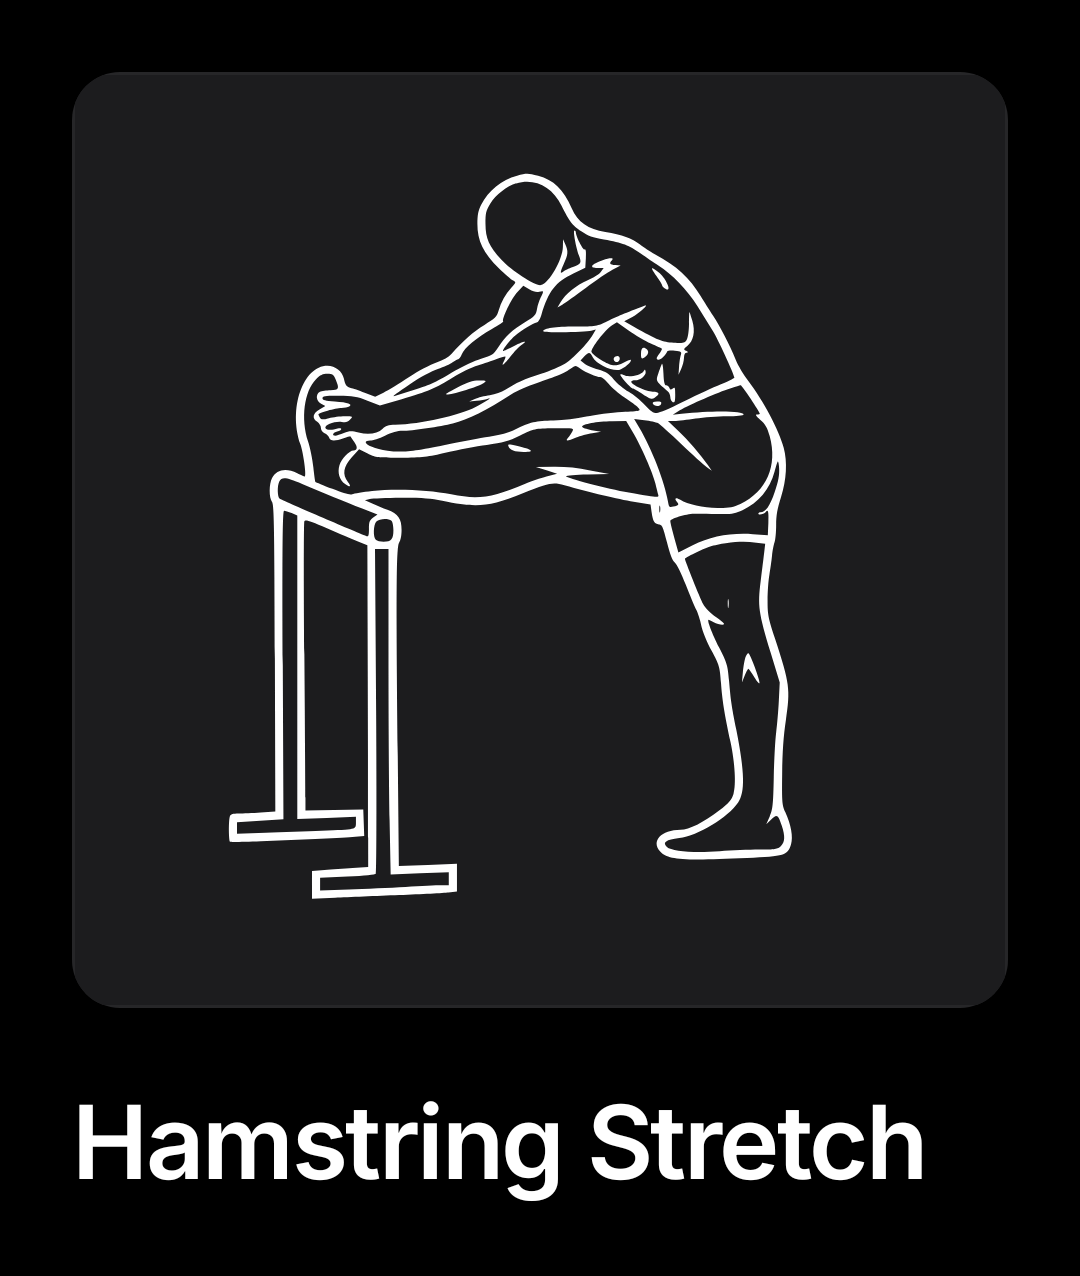
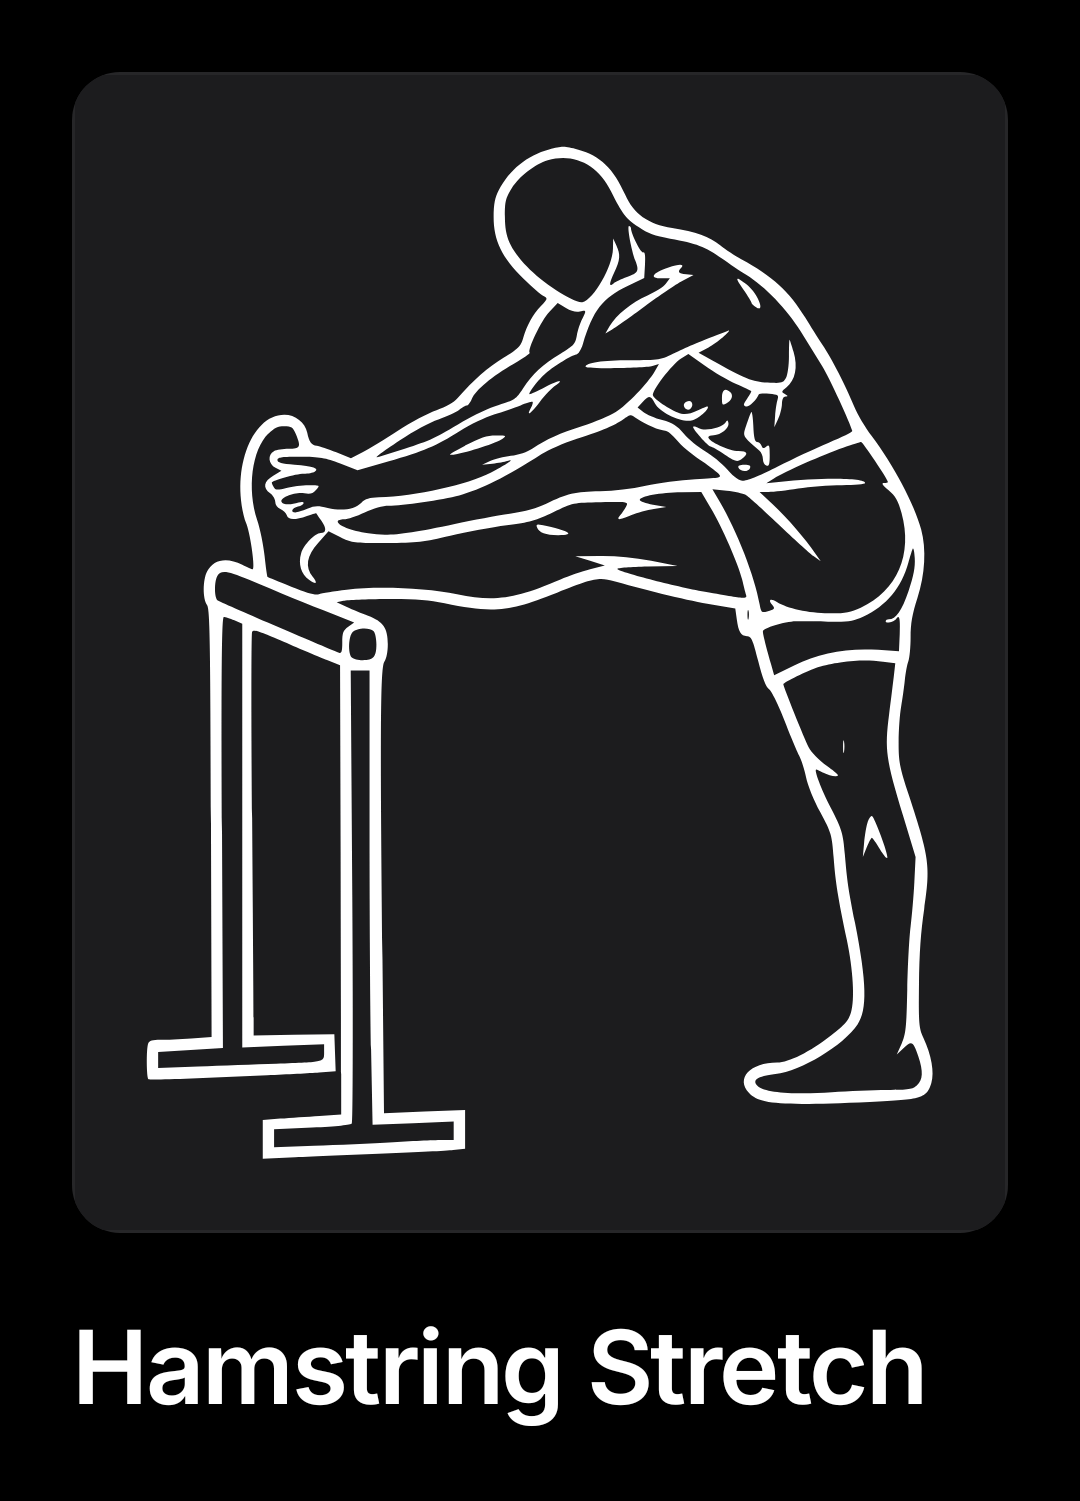
Übungsbild: Einzelbild zuschneiden, Row ohne Intrinsics, SPEC-Lizenz (Sonnet-Gegencheck)
Claude-Session: https://claude.ai/code/session_01PBv5TtvNq9RoQaBJa5EnQj

diff --git a/shared/src/commonMain/kotlin/app/overfit/ui/components/ExerciseImage.kt b/shared/src/commonMain/kotlin/app/overfit/ui/components/ExerciseImage.kt
@@ -4,10 +4,8 @@ import androidx.compose.foundation.background
 import androidx.compose.foundation.border
 import androidx.compose.foundation.layout.Arrangement
 import androidx.compose.foundation.layout.Column
-import androidx.compose.foundation.layout.IntrinsicSize
 import androidx.compose.foundation.layout.Row
 import androidx.compose.foundation.layout.Spacer
-import androidx.compose.foundation.layout.fillMaxHeight
 import androidx.compose.foundation.layout.height
 import androidx.compose.foundation.layout.offset
 import androidx.compose.foundation.layout.requiredSize
@@ -69,8 +67,8 @@ object ExerciseImages {
         if (frame == 1) imageRef else imageRef.removeSuffix(".svg") + "-$frame.svg"
 
     /**
-     * Start and end pose of [exercise] for the detail view, in that order (frame files and crop), or null when it
-     * shows a single image (holds, static stretches, custom exercises, not loaded yet).
+     * Poses of [exercise] for the detail view (frame files and crop): start and end in that order, or just frame 1 for
+     * holds and static stretches. Null without an entry (custom exercises, not loaded yet).
      */
     fun poses(exercise: Exercise, pairs: Map<String, PosePair>?): List<Pose>? {
         val ref = exercise.imageRef ?: return null
@@ -160,8 +158,8 @@ private fun ExerciseImageContent(exercise: Exercise, model: String?, vector: Boo
 /**
  * Large image for the detail screen, in a [Panel]: start and end pose next to each other (stacked for wide, lying
  * poses), both crops the same size and scale with the figure standing on the same line (data from poses.json), small
- * "Start"/"End" captions. Holds, static stretches and anything without a pose pair show frame 1 as one still image;
- * custom exercises without an image get the large initials tile. Theme colour, no animation.
+ * "Start"/"End" captions. Holds and static stretches show frame 1 alone, cropped the same way; a bundled image
+ * without an entry shows the whole frame; custom exercises without an image get the large initials tile. Theme colour, no animation.
  */
 @Composable
 fun ExerciseHero(exercise: Exercise, modifier: Modifier = Modifier) {
@@ -180,6 +178,10 @@ fun ExerciseHero(exercise: Exercise, modifier: Modifier = Modifier) {
     }
     val poses = remember(exercise.id, exercise.imageRef, pairs) { ExerciseImages.poses(exercise, pairs) }
     Panel(modifier) {
+        if (poses?.size == 1) {
+            PoseCell(poses[0], null, Modifier.fillMaxWidth())
+            return@Panel
+        }
         if (poses == null) {
             PanelItem {
                 AsyncImage(
@@ -197,8 +199,9 @@ fun ExerciseHero(exercise: Exercise, modifier: Modifier = Modifier) {
         if (wide) {
             poses.forEachIndexed { i, pose -> PoseCell(pose, labels[i], Modifier.fillMaxWidth()) }
         } else {
-            Row(Modifier.fillMaxWidth().height(IntrinsicSize.Min), horizontalArrangement = Arrangement.spacedBy(1.dp)) {
-                poses.forEachIndexed { i, pose -> PoseCell(pose, labels[i], Modifier.weight(1f).fillMaxHeight()) }
+            // Both crops have the same aspect ratio, so the two cells come out equally tall.
+            Row(Modifier.fillMaxWidth(), horizontalArrangement = Arrangement.spacedBy(1.dp)) {
+                poses.forEachIndexed { i, pose -> PoseCell(pose, labels[i], Modifier.weight(1f)) }
             }
         }
     }
@@ -208,7 +211,7 @@ fun ExerciseHero(exercise: Exercise, modifier: Modifier = Modifier) {
 private const val WIDE_POSE = 1.4f
 
 @Composable
-private fun PoseCell(pose: Pose, label: String, modifier: Modifier) {
+private fun PoseCell(pose: Pose, label: String?, modifier: Modifier) {
     Column(
         modifier.background(Theme.colors.surface).padding(Space.m),
         horizontalAlignment = Alignment.CenterHorizontally,
@@ -227,7 +230,9 @@ private fun PoseCell(pose: Pose, label: String, modifier: Modifier) {
                     .requiredSize(scale * ExerciseImages.CANVAS),
             )
         }
-        Spacer(Modifier.height(Space.s))
-        Text(label, style = Theme.type.caption, tone = Tone.Muted)
+        if (label != null) {
+            Spacer(Modifier.height(Space.s))
+            Text(label, style = Theme.type.caption, tone = Tone.Muted)
+        }
     }
 }

diff --git a/shared/src/androidHostTest/kotlin/app/overfit/ui/ExerciseFramesTest.kt b/shared/src/androidHostTest/kotlin/app/overfit/ui/ExerciseFramesTest.kt
@@ -44,23 +44,23 @@ class ExerciseFramesTest {
 
     @Test fun holdsStretchesAndCustomShowOneImage() {
         for (slug in listOf("plank", "dead-hang", "wall-sit", "hamstring-stretch", "butterfly-stretch")) {
-            assertNull(ExerciseImages.poses(exercise("catalog/wg/$slug.svg"), pairs), slug)
+            assertEquals(listOf("catalog/wg/$slug.svg"), ExerciseImages.poses(exercise("catalog/wg/$slug.svg"), pairs)!!.map { it.ref }, slug)
             assertTrue(!File(wg, "$slug-3.svg").exists(), "unused frame $slug-3.svg")
         }
         assertNull(ExerciseImages.poses(exercise(null), pairs))
         assertNull(ExerciseImages.poses(exercise("catalog/wg/squat.svg"), null))
     }
 
-    /** Every pair: two different frames, both files bundled, crops the same size and inside the 512 x 512 canvas. */
+    /** Every entry: frame 1 alone or frames 1 and 3, files bundled, crops the same size and inside the 512 x 512 canvas. */
     @Test fun everyPairIsBundledAndCropsFit() {
         val refs = catalogRefs()
         assertTrue(refs.size > 300, "catalog images: ${refs.size}")
-        assertTrue(pairs.size > 250, "pairs: ${pairs.size}")
+        assertTrue(pairs.count { it.value.frames.size == 2 } > 250, "pairs: ${pairs.size}")
         val slugs = refs.mapNotNull(ExerciseImages::slug).toSet()
-        assertEquals(emptySet(), pairs.keys - slugs, "pairs without catalog exercise")
+        assertEquals(slugs, pairs.keys, "every catalog exercise has exactly one entry")
         for ((slug, p) in pairs) {
-            assertEquals(setOf(1, 3), p.frames.toSet(), slug)
-            assertEquals(2, p.origin.size, slug)
+            assertTrue(p.frames == listOf(1) || p.frames.toSet() == setOf(1, 3), "$slug frames ${p.frames}")
+            assertEquals(p.frames.size, p.origin.size, slug)
             val (w, h) = p.size
             assertTrue(w > 0 && h > 0 && w <= 512f && h <= 512f, "$slug size $w x $h")
             for ((x, y) in p.origin) assertTrue(x >= 0 && y >= 0 && x + w <= 512.01f && y + h <= 512.01f, "$slug crop $x,$y outside")

diff --git a/tools/catalog/import_catalog.py b/tools/catalog/import_catalog.py
@@ -17,7 +17,7 @@ Ergebnis:
   shared/src/commonMain/composeResources/files/catalog/LICENSE-ASSETS-workout-guide.txt
 (Compose Resources: gemeinsam für Android und iOS.)
 
-Paare (poses.json): je Übung Reihenfolge [Start-Frame, End-Frame], gemeinsame Ausschnittgröße `size` (SVG-Einheiten)
+Posen (poses.json): je Übung Reihenfolge [Start-Frame, End-Frame] (bei SINGLE_POSE nur [1]), gemeinsame Ausschnittgröße `size` (SVG-Einheiten)
 und je Pose die linke obere Ecke `origin` des Ausschnitts. Beide Ausschnitte sind gleich groß (gleiche Skalierung), die
 Figur steht horizontal mittig und unten auf derselben Linie. Grundlage sind die gemessenen Bounding-Boxen und
 Linienstärken in tools/catalog/frame_metrics.json (erzeugt von tools/catalog/measure_frames.js in Chromium aus den
@@ -192,6 +192,14 @@ def shrink(svg: bytes) -> bytes:
 
 def pose_pair(slug: str, m: dict) -> dict:
     """Reihenfolge, gemeinsamer Ausschnitt (gleiche Größe, Figur mittig, gleiche Bodenlinie) und Ausgleichskontur."""
+    if slug in SINGLE_POSE:
+        # Nur Frame 1, aber ebenso auf die Figur zugeschnitten (sonst bleibt z. B. bei Plank das halbe Feld leer).
+        x0, y0, x1, y1 = m["1"]["bbox"]
+        pad = PAD + m["1"]["t"] / 2
+        w, h = min(CANVAS, x1 - x0 + 2 * pad), min(CANVAS, y1 - y0 + 2 * pad)
+        x = min(max((x0 + x1) / 2 - w / 2, 0), CANVAS - w)
+        y = min(max(y1 + pad - h, 0), CANVAS - h)
+        return {"frames": [1], "size": [round(w, 1), round(h, 1)], "origin": [[round(x, 1), round(y, 1)]], "stroke": {}}
     order = [1, 3] if slug in START_AT_FRAME_1 else [3, 1]
     t = {i: m[str(i)]["t"] for i in (1, 3)}
     thick = max(t.values())
@@ -260,7 +268,8 @@ def main() -> None:
         raise SystemExit(f"Dehnübungen ohne Einordnung: {sorted(stretches - SINGLE_POSE - DYNAMIC_STRETCHES)}")
     if set(metrics) != set(by_slug):
         raise SystemExit("frame_metrics.json passt nicht zum Manifest: node tools/catalog/measure_frames.js")
-    pairs = {slug: pose_pair(slug, metrics[slug]) for slug in sorted(by_slug) if slug not in SINGLE_POSE}
+    poses_all = {slug: pose_pair(slug, metrics[slug]) for slug in sorted(by_slug)}
+    pairs = {slug: p for slug, p in poses_all.items() if len(p["frames"]) == 2}
 
     def frames(e: dict) -> list[tuple[str, bytes]]:
         out = []
@@ -318,7 +327,7 @@ def main() -> None:
     for name, data in svgs.items():
         (svg_dir / name).write_bytes(data)
     (OUT / "LICENSE-ASSETS-workout-guide.txt").write_bytes(license_text)
-    poses = {slug: {k: p[k] for k in ("frames", "size", "origin")} for slug, p in pairs.items()}
+    poses = {slug: {k: p[k] for k in ("frames", "size", "origin")} for slug, p in poses_all.items()}
     (OUT / "poses.json").write_text(
         "{\n" + ",\n".join(f'"{k}":' + json.dumps(v, separators=(",", ":")) for k, v in poses.items()) + "\n}\n",
         encoding="utf-8",

diff --git a/docs/DECISIONS.md b/docs/DECISIONS.md
@@ -1179,8 +1179,8 @@ docs/monetization.md „Rechnung (Session AB)“; Schwellen: „Kleinunternehmer
 - **Befund (alle 906 Frames in Chromium gerendert, Kontaktbögen aller 302 Übungen angesehen):** Frame 2 ist meist eine **dicker nachgezeichnete Kopie von Frame 1** (Bryl Lim, `animation frames`) – daher die springende Linienstärke. Frame 1 (meist direkt aus Everkinetic `…-tension.svg`) und Frame 3 zeigen die beiden Endpunkte der Bewegung. Die Figuren stehen je Frame an anderer Stelle im 512er-Raster. Auch Frame 1 und 3 haben oft unterschiedliche Linienstärke (Messung t = 2·Fläche/Umfang: bei 124 von 302 Paaren > 25 % Unterschied).
 - **Lösung:** Detailansicht zeigt ein ruhiges Paar **Frame 1 + Frame 3** in einem `Panel` (zwei Flächen, 1-dp-Trennlinie, dezente Beschriftung „Start“/„Ende“, weil die Reihenfolge sonst nicht eindeutig ist). Frame 2 wird nicht mehr gebündelt. Listen-Icons bleiben Frame 1.
 - **Welche Pose ist Start:** Standard Frame 3 = Ausgangsposition, Frame 1 = Endposition (Everkinetic „tension“). 32 Ausnahmen, bei denen Frame 1 die übliche Ausgangsposition zeigt (Drücken im Liegen mit gestreckten Armen, Dips oben, Kniebeuge im Stand, Kreuzheben-Varianten am Boden bzw. RDL im Stand, Negativ-Klimmzug oben …), von Hand festgelegt in `START_AT_FRAME_1` (`tools/catalog/import_catalog.py`). Bei Bewegungen ohne klare Richtung (Cardio, Dead Bug) gilt einfach der Standard.
-- **Nur ein Bild (24 Übungen, `SINGLE_POSE`):** Halteübungen (Plank, Side Plank, Hangs, Wall Sit, Hollow/L-Sit/Superman Hold, Pallof Hold, Farmer Carry), fast gleiche Cardio-Frames (Stair Climber, Laufband) und die 10 statischen Dehnungen (`isStretch`). Die dynamischen „Stretches“ (Arm Circles, Cat-Cow, Leg Swings, World's Greatest) behalten das Paar. Das Skript bricht ab, wenn eine neue Dehnübung keiner Gruppe zugeordnet ist.
+- **Nur ein Bild (24 Übungen, `SINGLE_POSE`):** Halteübungen (Plank, Side Plank, Hangs, Wall Sit, Hollow/L-Sit/Superman Hold, Pallof Hold, Farmer Carry), fast gleiche Cardio-Frames (Stair Climber, Laufband) und die 10 statischen Dehnungen (`isStretch`). Die dynamischen „Stretches“ (Arm Circles, Cat-Cow, Leg Swings, World's Greatest) behalten das Paar. Das Skript bricht ab, wenn eine neue Dehnübung keiner Gruppe zugeordnet ist. Auch das Einzelbild wird auf die Figur zugeschnitten (Sonnet-Gegencheck: Plank ließ sonst das halbe Feld leer).
 - **Gleiche Größe, gleiche Skalierung, gleicher Boden:** `tools/catalog/measure_frames.js` (Playwright/Chromium, nur Entwickler-Werkzeug) misst je Frame Bounding-Box und Linienstärke aus den unveränderten Quell-SVGs und schreibt `tools/catalog/frame_metrics.json` (eingecheckt). Der Import berechnet daraus `catalog/poses.json`: Reihenfolge, **ein** Ausschnitt `size` (größte Breite/Höhe beider Figuren + Rand) und je Pose dessen Ursprung, sodass die Figur mittig und mit der Unterkante auf derselben Linie steht. Die App zeichnet jeweils das ganze 512er-Bild im selben Maßstab und verschiebt es (kein Zoom pro Pose). Ausschnitte breiter als 1,4 : 1 (45 Übungen, z. B. Liegestütz, Crunch, Glute Bridge) stehen untereinander statt nebeneinander, sonst würden sie auf 360 dp winzig.
 - **Linienstärke:** Die dünner gezeichnete Pose eines Paars bekommt im Import eine Kontur in Füllfarbe (`stroke-width` = Differenz der gemessenen Stärken, `stroke-linejoin="round"`, ab 0,3 Einheiten). Das macht jede Linie gleichmäßig dicker, die Form bleibt. Dünner machen geht nicht, deshalb immer auf die dickere angleichen. Betrifft auch Frame 1, also das Listen-Icon (gleiche Pose, etwas kräftigere Linie). Lizenzhinweis (`aboutWorkoutGuide`) nennt Kontur und Zuschnitt als Änderung (CC BY-SA 4.0).
-- **Daten statt DB:** `poses.json` (≈ 25 KB) wird beim ersten Öffnen einer Detailansicht gelesen und im Speicher gehalten; `exercises.json` und Room bleiben unverändert (keine Migration). Größe der Übungsgrafiken 23 MB → 14 MB (580 statt 906 SVGs).
+- **Daten statt DB:** `poses.json` (≈ 25 KB, ein Eintrag je Übung) wird beim ersten Öffnen einer Detailansicht gelesen und im Speicher gehalten; `exercises.json` und Room bleiben unverändert (keine Migration). Größe der Übungsgrafiken 23 MB → 14 MB (580 statt 906 SVGs).
 - **Tests:** `ExerciseFramesTest` (Stichproben der Reihenfolge, Einzelbilder, jede Paar-Datei vorhanden, Ausschnitte gleich groß und im Raster, keine ungenutzten Frames), `ExerciseSvgIntegrityTest` (580 Dateien, Kontur-Markup und nie auf beiden Posen; Referenzen ohne Frame 2). Belege `docs/screenshots/uebungsbild/vorher|nachher/` (vorher: die drei animierten Frames aus main; nachher: Robolectric, 360 dp, hell/dunkel, 10 Übungen).

diff --git a/SPEC.md b/SPEC.md
@@ -59,7 +59,7 @@ Nicht im Onboarding: Sprache (Gerät/Einstellungen), Ziel, Größe, Erfahrung, E
 - Hauptquelle: Workout Guide (github.com/bryllim/workout-guide, npm @bryllim/workout-guide): 302 Übungen, je 3 schematische SVG-Frames. Frame 1 als Standbild in Listen; die große Detailansicht zeigt ruhig zwei Posen nebeneinander, Ausgangs- und Endposition (Frame 1 und Frame 3, gleich groß, gleich skaliert, auf derselben Bodenlinie, Linienstärke angeglichen; seit Session AN statt der Animation aus Session AH). Halteübungen und statische Dehnungen: nur Frame 1. Frame 2 wird nicht gebündelt. SVG beim Rendern in der Theme-Farbe einfärben.
 - ~~Ergänzung durch free-exercise-db~~ – am 3.11.2026 entfernt (Fotos passten nicht ins Design). Fehlende Übungen legt man als eigene Übung an; „Mit KI ausfüllen“ ergänzt aus dem Namen Erfassungsart, Muskeln, Equipment, Pause und eine Ausführungsnotiz (alles bearbeitbar), vorher „Meintest du …?“ gegen Dubletten. Auch im Workout-Modus über den Übungs-Picker.
 - Import-Skript im Repo: Workout Guide an festen Commit gepinnt laden, Ergebnis als exercises.json ins App-Asset. Workout-Guide-SVGs offline mitbündeln. Keine Bilder aus dem Netz.
-- Lizenz: Workout-Guide-Grafiken sind CC BY-SA 4.0 → Namensnennung (Bryl Lim, Everkinetic) im „Über"-Screen, Dateien unverändert lassen (Einfärben beim Rendern ist erlaubt).
+- Lizenz: Workout-Guide-Grafiken sind CC BY-SA 4.0 → Namensnennung (Bryl Lim, Everkinetic) im „Über"-Screen, jede Änderung an den Dateien (Rundung der Pfadzahlen, Ausgleichskontur, Zuschnitt in der Detailansicht, Einfärben beim Rendern) dort nennen.
 - Keine Anleitungstexte: nur Name, Bild, Muskelgruppe. Fuzzy-Suche + Filter Muskelgruppe/Equipment.
 - Eigene Übungen: Name, trackingType, Pausenzeit; ohne Bild → Initialen-Kachel (z. B. „HA").
 
